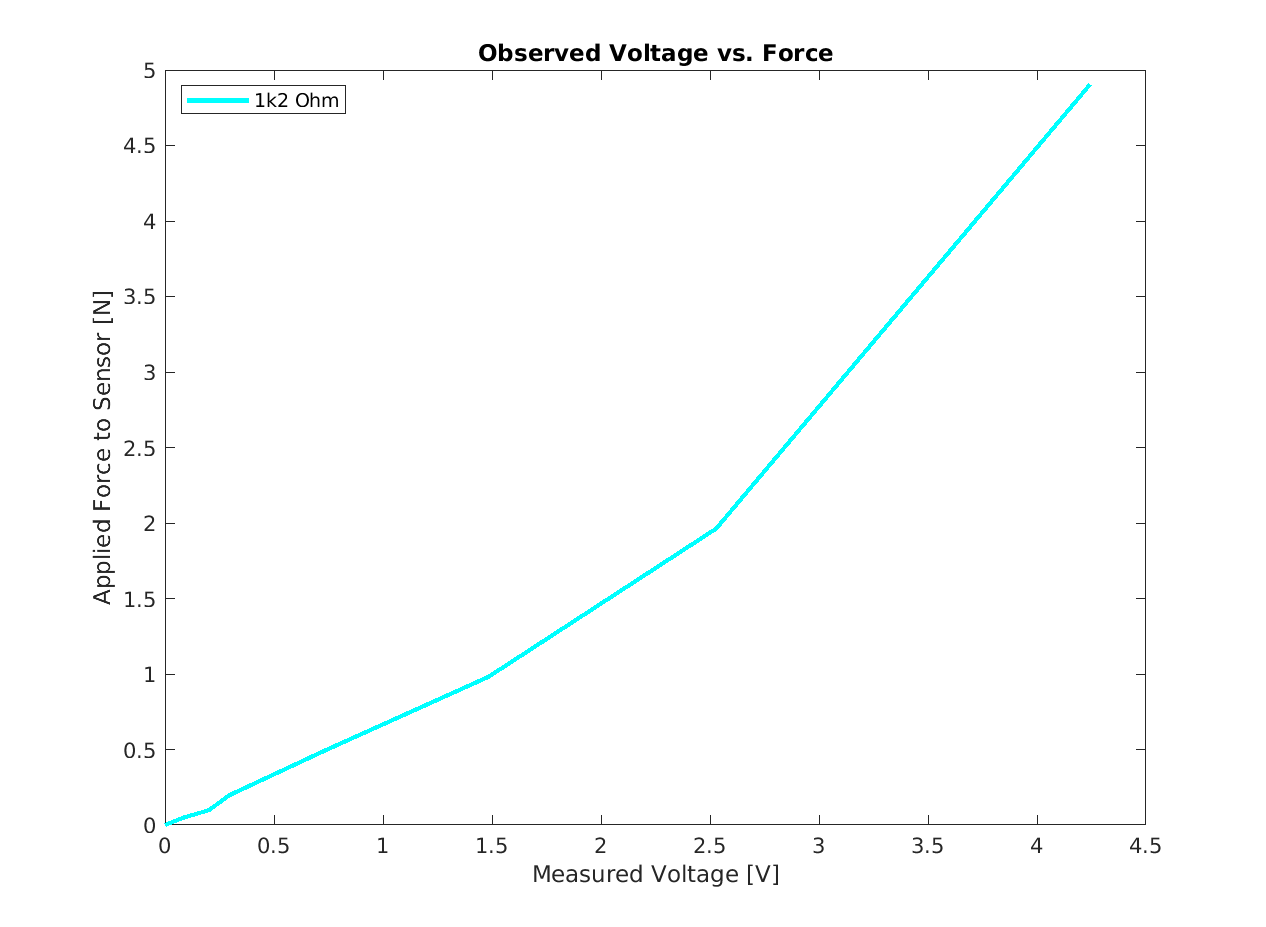
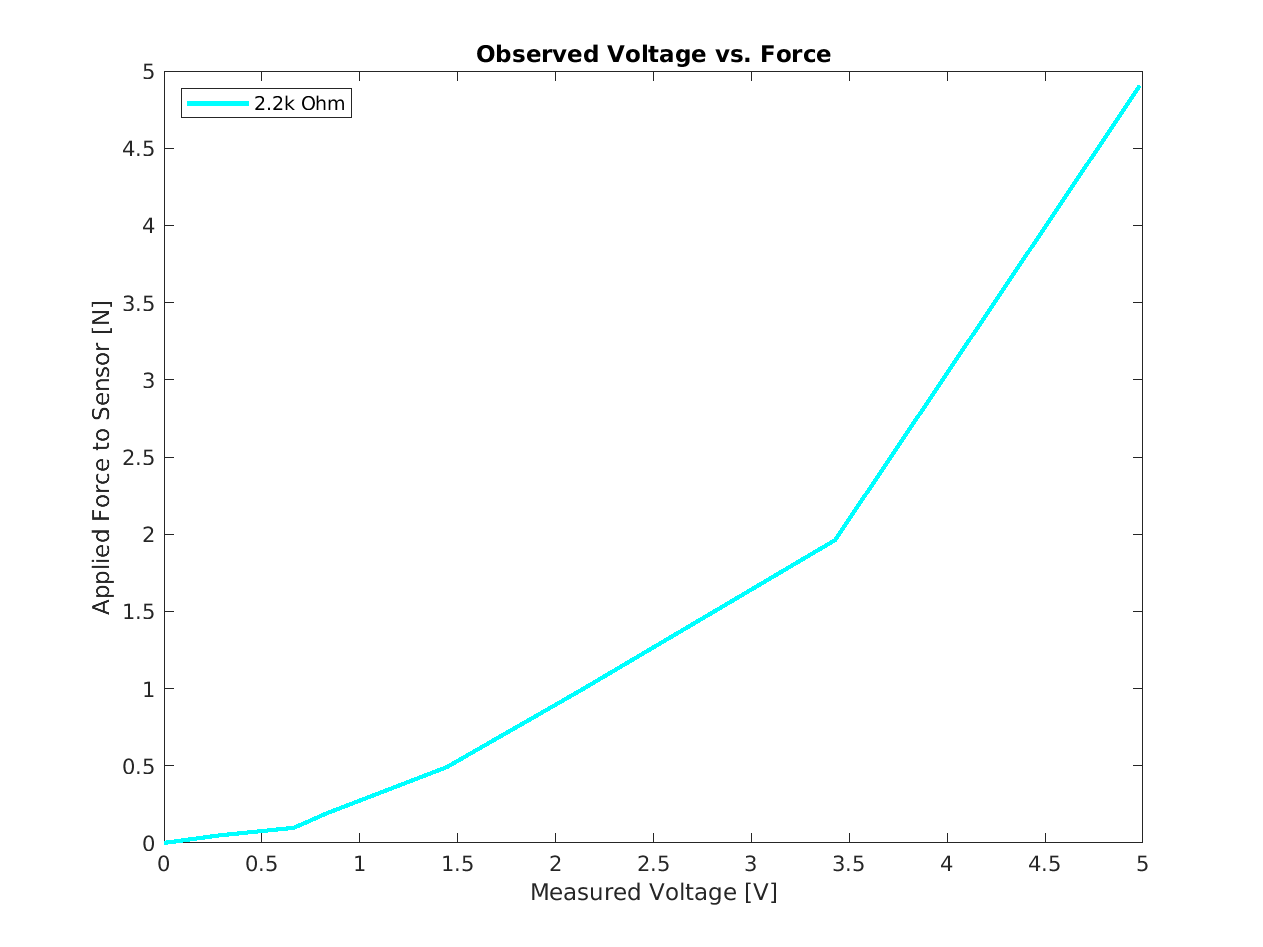
FSR in functional state (#66)
* Changed force.data

* Changed force.data to cubic fit

* Tested new curve fits

* Figures from /ross/force

* Files for third degree curve fit

* Updated curve fit

* new fit

* Update fsrCalibrationTests-2200Ohm.csv

* new averages

* fsr testing at working level

---------

diff --git a/analysis/fsrAnalysis/fsrCalibrationThirdDegree.m b/analysis/fsrAnalysis/fsrCalibrationThirdDegree.m
@@ -1,0 +1,125 @@
+%FSR_force sensor calibration
+clear all
+close all
+
+% Check if the folder 'figures' exists, create it if it doesn't
+folderName = 'figures';
+if ~exist(folderName, 'dir')
+    mkdir(folderName);  % Make a new directory if it doesn't exist
+end
+
+% Read data from table
+% Specify the path to the CSV file
+filename = 'fsrCalibrationAverages_only1k.csv';
+TData = readtable(filename);
+
+% Get data meta-data
+resistorNames = TData.Properties.VariableNames(2:end);
+totalResistors = size(resistorNames, 2);
+totalForces = size(resistorNames, 1);
+colors = cool(totalResistors);
+
+% Assign voltageOut and Force data from file
+voltageOut = TData(:, 2:end)
+force = (TData.Resistors / 1000)*9.81
+
+% Plot observed data
+legendTitles = {};
+figure
+for i = 1:length(resistorNames)
+    varName = resistorNames{i};
+    plot(voltageOut.(varName), force, 'LineWidth', 2, 'Color', colors(i, :));
+    legendTitles{end+1} = [strrep(varName(2:end), '_', '.') ' Ohm' ];
+    hold on
+end
+hold off
+xlabel('Measured Voltage [V]')
+ylabel('Applied Force to Sensor [N]')
+legend(legendTitles, 'Location', 'northwest');
+title('Observed Voltage vs. Force');
+set(gcf, 'Position', [100, 100, 800, 600]);
+saveas(gcf, fullfile('figures', 'ObservedVoltageVsForcePlot.png'));
+
+% Log-log scale plot we can see this relationship between voltage and force is nonlinear
+legendTitles = {};
+figure
+for i = 1:length(resistorNames)
+    varName = resistorNames{i};
+    loglog(voltageOut.(varName), force, 'LineWidth', 2, 'Color', colors(i, :));
+    legendTitles{end+1} = [strrep(varName(2:end), '_', '.') ' Ohm' ];
+    hold on
+end
+hold off
+xlabel('Measured Voltage [V]')
+ylabel('Applied Force to Sensor [N]')
+legend(legendTitles, 'Location', 'northwest');
+title('Log-Log Scale Comparison: Voltage vs. Force');
+axis([0 5 0 5])
+set(gcf, 'Position', [100, 100, 800, 600]);
+saveas(gcf, fullfile('figures', 'LogLogVoltageVsForcePlot.png'));
+
+% Take the exponent of the voltage 
+%expVoltageOut = exp(voltageOut)
+expVoltageOut = voltageOut;
+
+% Plot force against exponent of voltages for curve fitting
+legendTitles = {};
+figure
+for i = 1:length(resistorNames)
+    varName = resistorNames{i};
+    plot(expVoltageOut.(varName), force, 'LineWidth', 2);%, 'Colorca', colors(i, :));
+    legendTitles{end+1} = [strrep(varName(2:end), '_', '.') ' Ohm' ];
+    hold on
+end
+hold off
+xlabel('Exponential of Measured Voltage [V]')
+ylabel('Applied Force to Sensor [N]')
+legend(legendTitles, 'Location', 'northwest'); % Add a legend with descriptive labels
+title('Exponential Voltage vs. Force'); % Add a title
+set(gcf, 'Position', [100, 100, 800, 600]);
+saveas(gcf, fullfile('figures', 'ExponentialVoltageVsForcePlot.png'));
+
+% Determine coef for each resistor
+% Fit a 5th-degree polynomial and store coefficients
+coeffMatrix = zeros(length(resistorNames), 4);  % 6 coefficients for a 5th-degree polynomial
+for i = 1:length(resistorNames)
+    dataColumn = expVoltageOut{:, i};
+    coeff = polyfit(dataColumn, force, 3);
+    coeffMatrix(i, :) = coeff;
+end
+coeffTable = array2table(coeffMatrix', 'VariableNames', resistorNames)
+
+% With basic curve fitting we can get the coefficients of the nonlinear
+% Relationship with a polynomial with R=1 as:
+for i = 1:totalResistors
+    forceEstimateArray(:, i) = ...
+       coeffTable{1, i} * expVoltageOut{:, i}.^3 ...
+     + coeffTable{2, i} * expVoltageOut{:, i}.^2 ...
+     + coeffTable{3, i} * expVoltageOut{:, i} ...
+     + coeffTable{4, i}; 
+%     + coeffTable{5, i} * expVoltageOut{:, i}	...
+%     + coeffTable{6, i};
+end
+forceEstimate = array2table(forceEstimateArray, 'VariableNames', expVoltageOut.Properties.VariableNames)
+
+% Plot the observed vs the estimated forces using the measured voltage
+figure
+legendTitles = {};
+for i = 1 : length(resistorNames)
+    varName = resistorNames{i};
+    
+    plot((voltageOut.(varName)),(force),'linewidth',1,'Color', colors(i, :));
+    legendTitles{end+1} = ['Observed ' strrep(varName(2:end), '_', '.') ' Ohm' ];
+    hold on
+    plot(voltageOut.(varName),forceEstimate{:, i},':','linewidth',3,'Color', colors(i, :));
+    legendTitles{end+1} = ['Estimated ' strrep(varName(2:end), '_', '.') ' Ohm' ];
+    hold on    
+end
+hold off
+xlabel('Measured Voltage [V]')
+ylabel('Force [N]')
+title('Observed and Estimated Forces Compared');
+legend(legendTitles, 'Location', 'northwest');
+axis([0 5 0 5])
+set(gcf, 'Position', [100, 100, 800, 600]);
+saveas(gcf, fullfile('figures', 'ObservedvsEstimatedComparedVoltageVsForcePlot.png'));

diff --git a/analysis/fsrAnalysis/fsr_calibration_third_degree_fit.m b/analysis/fsrAnalysis/fsr_calibration_third_degree_fit.m
@@ -1,0 +1,122 @@
+% FSR_force sensor calibration
+clear all
+close all
+
+% Check if the folder 'figures' exists, create it if it doesn't
+folderName = 'figures';
+if ~exist(folderName, 'dir')
+    mkdir(folderName);  % Make a new directory if it doesn't exist
+end
+
+% Read data from table
+% Specify the path to the CSV file
+filename = 'fsr_calibration_averages-2200Ohm.csv';
+TData = readtable(filename);
+
+% Get data meta-data
+resistorNames = TData.Properties.VariableNames(2:end);
+totalResistors = size(resistorNames, 2);
+totalForces = size(resistorNames, 1);
+colors = cool(totalResistors);
+
+% Assign voltageOut and Force data from file
+voltageOut = TData(:, 2:end);
+force = (TData.Grams / 1000) * 9.81;
+
+% Plot observed data
+legendTitles = {};
+figure;
+for i = 1:length(resistorNames)
+    varName = resistorNames{i};
+    plot(voltageOut.(varName), force, 'LineWidth', 2, 'Color', colors(i, :));
+    legendTitles{end+1} = [strrep(varName(2:end), '_', '.') ' Ohm'];
+    hold on;
+end
+hold off;
+xlabel('Measured Voltage [V]');
+ylabel('Applied Force to Sensor [N]');
+legend(legendTitles, 'Location', 'northwest');
+title('Observed Voltage vs. Force');
+set(gcf, 'Position', [100, 100, 800, 600]);
+saveas(gcf, fullfile('figures', 'ObservedVoltageVsForcePlot.png'));
+
+% Log-log scale plot
+legendTitles = {};
+figure;
+for i = 1:length(resistorNames)
+    varName = resistorNames{i};
+    loglog(voltageOut.(varName), force, 'LineWidth', 2, 'Color', colors(i, :));
+    legendTitles{end+1} = [strrep(varName(2:end), '_', '.') ' Ohm'];
+    hold on;
+end
+hold off;
+xlabel('Measured Voltage [V]');
+ylabel('Applied Force to Sensor [N]');
+legend(legendTitles, 'Location', 'northwest');
+title('Log-Log Scale Comparison: Voltage vs. Force');
+axis([0 5 0 5]);
+set(gcf, 'Position', [100, 100, 800, 600]);
+saveas(gcf, fullfile('figures', 'LogLogVoltageVsForcePlot.png'));
+
+% Exponential transformation of voltage
+expVoltageOut = voltageOut;
+
+% Plot force against exponent of voltages for curve fitting
+legendTitles = {};
+figure;
+for i = 1:length(resistorNames)
+    varName = resistorNames{i};
+    plot(expVoltageOut.(varName), force, 'LineWidth', 2);
+    legendTitles{end+1} = [strrep(varName(2:end), '_', '.') ' Ohm'];
+    hold on;
+end
+hold off;
+xlabel('Exponential of Measured Voltage [V]');
+ylabel('Applied Force to Sensor [N]');
+legend(legendTitles, 'Location', 'northwest');
+title('Exponential Voltage vs. Force');
+set(gcf, 'Position', [100, 100, 800, 600]);
+saveas(gcf, fullfile('figures', 'ExponentialVoltageVsForcePlot.png'));
+
+% Fit a 3rd-degree polynomial and store coefficients
+coeffMatrix = zeros(length(resistorNames), 4);
+for i = 1:length(resistorNames)
+    dataColumn = expVoltageOut{:, i};
+    coeff = polyfit(dataColumn, force, 3);
+    coeffMatrix(i, :) = coeff;
+end
+coeffTable = array2table(coeffMatrix', 'VariableNames', resistorNames);
+
+% Estimate force using polynomial coefficients
+for i = 1:totalResistors
+    forceEstimateArray(:, i) = ...
+       coeffTable{1, i} * expVoltageOut{:, i}.^3 ...
+     + coeffTable{2, i} * expVoltageOut{:, i}.^2 ...
+     + coeffTable{3, i} * expVoltageOut{:, i} ...
+     + coeffTable{4, i};
+end
+forceEstimate = array2table(forceEstimateArray, 'VariableNames', expVoltageOut.Properties.VariableNames);
+
+% Plot observed vs estimated forces
+figure;
+legendTitles = {};
+for i = 1:length(resistorNames)
+    varName = resistorNames{i};
+    plot((voltageOut.(varName)),(force),'linewidth',1,'Color', colors(i, :));
+    legendTitles{end+1} = ['Observed ' strrep(varName(2:end), '_', '.') ' Ohm'];
+    hold on;
+    plot(voltageOut.(varName),forceEstimate{:, i},':','linewidth',3,'Color', colors(i, :));
+    legendTitles{end+1} = ['Estimated ' strrep(varName(2:end), '_', '.') ' Ohm'];
+    hold on;
+end
+hold off;
+xlabel('Measured Voltage [V]');
+ylabel('Force [N]');
+title('Observed and Estimated Forces Compared');
+legend(legendTitles, 'Location', 'northwest');
+axis([0 5 0 5]);
+set(gcf, 'Position', [100, 100, 800, 600]);
+saveas(gcf, fullfile('figures', 'ObservedvsEstimatedComparedVoltageVsForcePlot.png'));
+
+% Display the coefficients
+disp(coeffTable);

diff --git a/analysis/fsrAnalysis/fsr_calibration_average_calculation.m b/analysis/fsrAnalysis/fsr_calibration_average_calculation.m
@@ -1,0 +1,15 @@
+% Read the CSV file
+input_filename = 'fsr_calibration_trials-2200Ohm.csv';
+data = readtable(input_filename);
+
+% Compute the average across all sensor columns (excluding the first column)
+averages = mean(data{:, 2:end}, 2);
+
+% Create a new table with the averaged results
+output_table = table(data.Grams, averages, 'VariableNames', {'Grams', '2.2k'});
+
+% Write the new table to a CSV file
+output_filename = 'fsr_calibration_averages-2200Ohm.csv';
+writetable(output_table, output_filename);
+
+fprintf('Averaged data saved to %s\n', output_filename);
